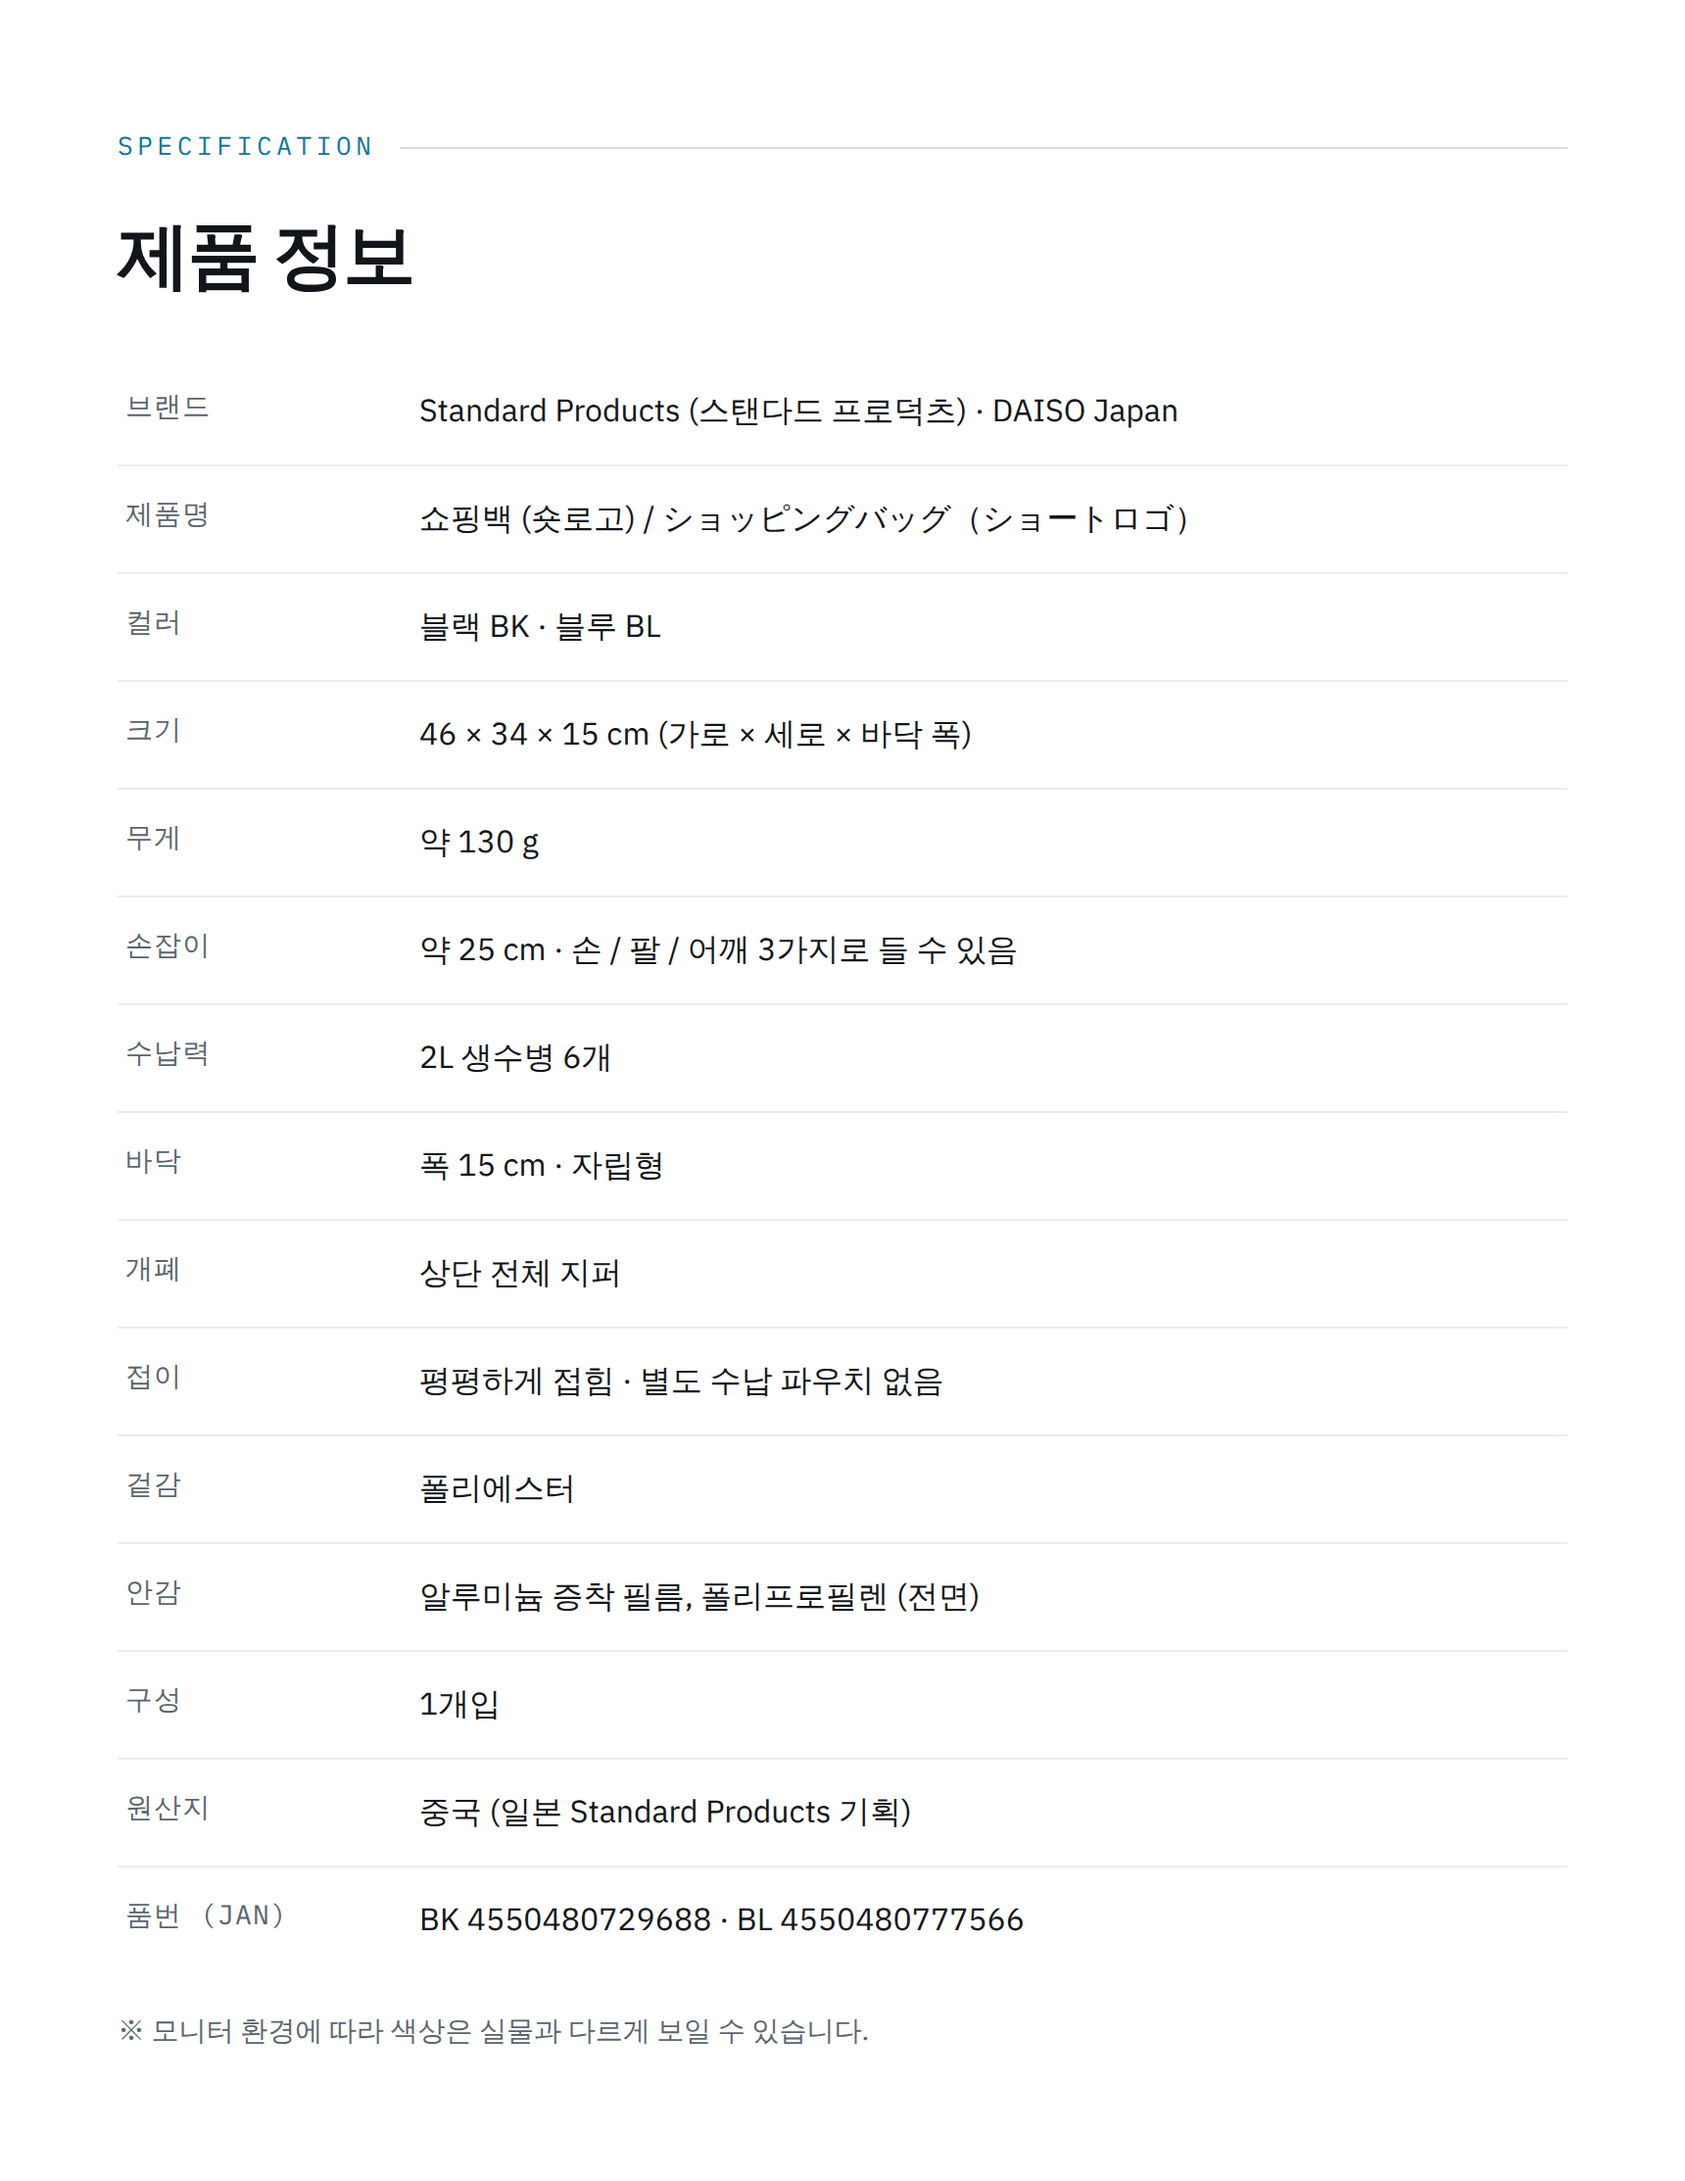
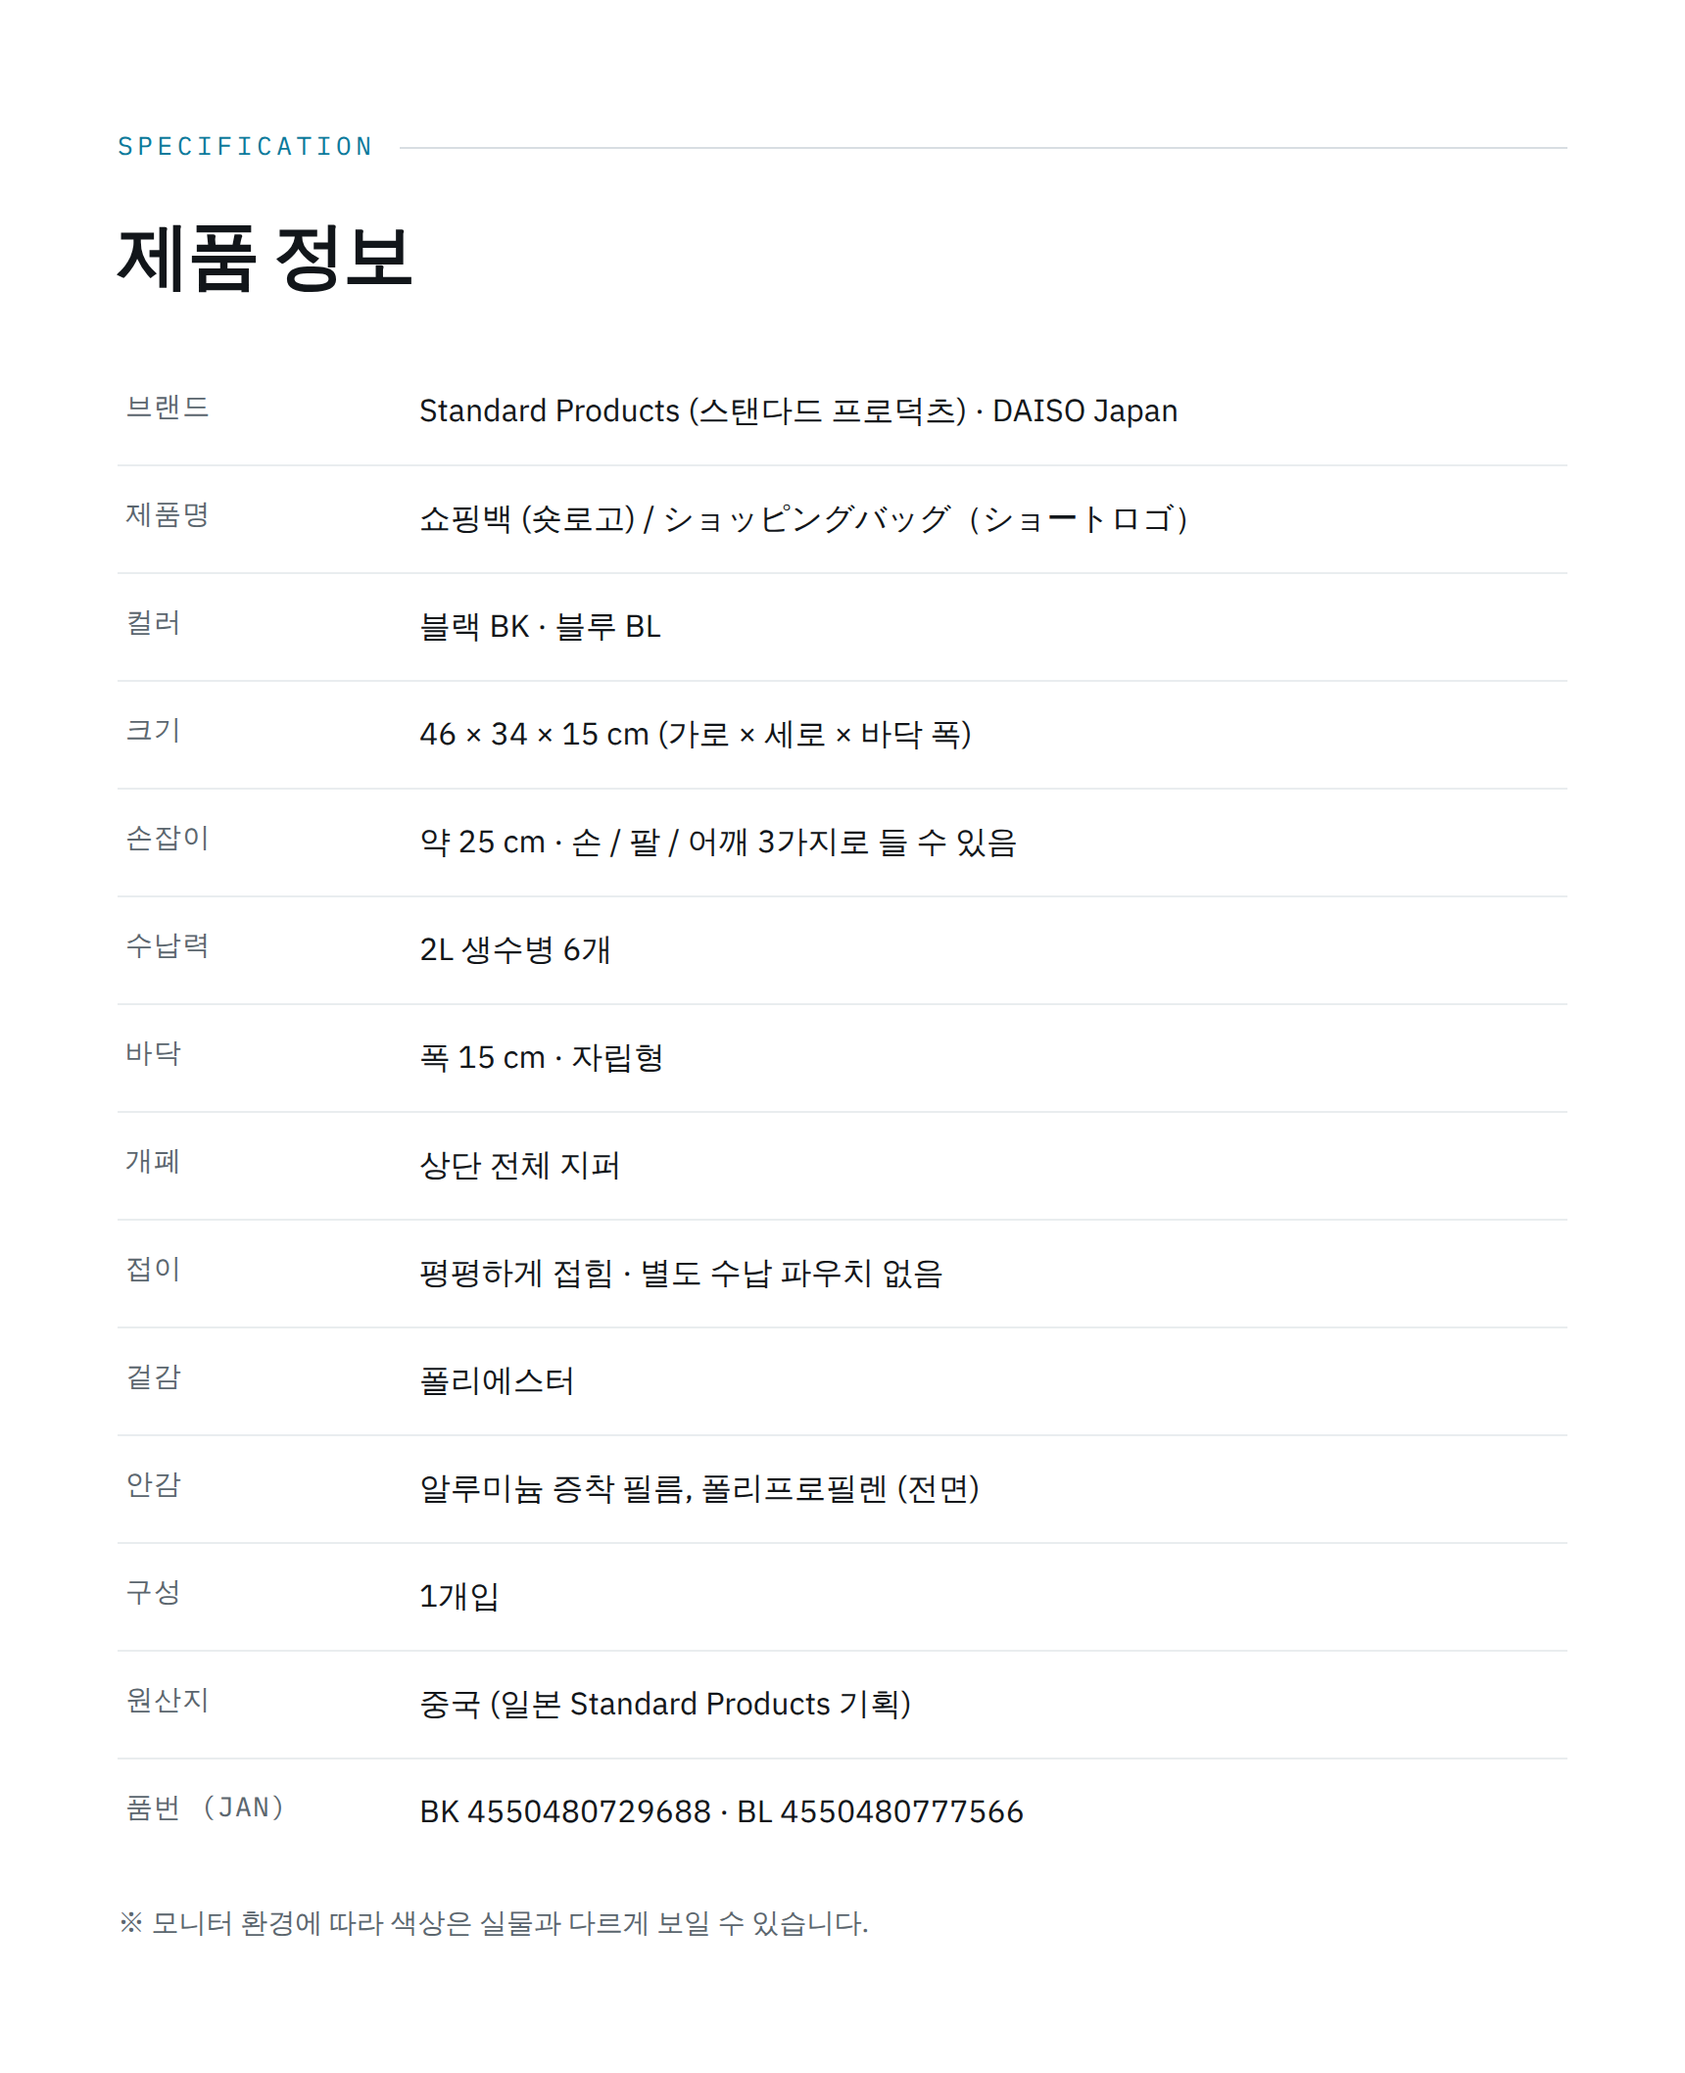
제품 스펙에서 무게 표기 제거
판매자 요청으로 무게(약 130g)를 표기하지 않는다. 요약 지표에서
비어난 자리에는 알루미늄 안감을 넣었다 — 핵심 특징인데 정작 요약
지표에는 빠져 있었다.

- 한눈에 보는 스펙: 무게 → 안감(알루미늄 내피)
- 스펙표 15항목 → 14항목
- 05 섹션 제목과 본문에서 무게 문구 제거
- FAQ 답변 수정

'과도한 무게' 같은 적재 하중 주의 문구는 성격이 달라 유지한다.

Claude-Session: https://claude.ai/code/session_01XtEwJPfADHo5T43jWgLqEL

diff --git a/detail-page/standard-products-cooler-bag.html b/detail-page/standard-products-cooler-bag.html
@@ -312,7 +312,7 @@
     <div class="glance">
       <div class="g"><span class="gl">크기</span><b class="gv">46 <i>×</i> 34 <i>×</i> 15<em>cm</em></b><span class="gn">가로 · 세로 · 바닥 폭</span></div>
       <div class="g"><span class="gl">수납</span><b class="gv">2L <i>×</i> 6<em>병</em></b><span class="gn">2L 생수병 기준</span></div>
-      <div class="g"><span class="gl">무게</span><b class="gv">약 130<em>g</em></b><span class="gn">가방 자체 무게</span></div>
+      <div class="g"><span class="gl">안감</span><b class="gv">알루미늄<em>내피</em></b><span class="gn">안쪽 전면 · 보냉</span></div>
       <div class="g"><span class="gl">손잡이</span><b class="gv">어깨 <em>걸이</em></b><span class="gn">손 · 팔 · 어깨 3가지</span></div>
       <div class="g"><span class="gl">바닥</span><b class="gv">자립<em>형</em></b><span class="gn">폭 15cm · 세워서 담기</span></div>
       <div class="g"><span class="gl">개폐</span><b class="gv">지퍼<em>식</em></b><span class="gn">상단 전체 개폐</span></div>
@@ -588,11 +588,10 @@
     <div class="feat">
       <div class="stack">
         <div><span class="num">05</span></div>
-        <h2>130g. 평소엔 접어서 가방 속에</h2>
+        <h2>평소엔 접어서 가방 속에</h2>
         <p class="lede" style="max-width:56ch">
-          가방 자체 무게가 <b>약 130g</b>. 폴리에스터 원단이라 평평하게 접히고,
-          접으면 일반 가방이나 백팩 안에 그대로 들어갑니다. 별도 수납 파우치는 없습니다.
-          매일 넣어 다니다가 장 볼 일이 생기면 꺼내 쓰는 방식입니다.
+          폴리에스터 원단이라 <b>평평하게 접힙니다.</b> 접으면 일반 가방이나 백팩 안에 그대로 들어가고,
+          별도 수납 파우치는 없습니다. 매일 넣어 다니다가 장 볼 일이 생기면 꺼내 쓰는 방식입니다.
         </p>
       </div>
 
@@ -690,7 +689,6 @@
         <tr><th>제품명</th><td>쇼핑백 (숏로고) / ショッピングバッグ（ショートロゴ）<br><span class="small muted">‘숏로고’는 프린트된 로고 표기 방식을 뜻하며, 손잡이 길이와는 무관합니다.</span></td></tr>
         <tr><th>컬러</th><td>블랙 BK · 블루 BL</td></tr>
         <tr><th>크기</th><td>46 × 34 × 15 cm (가로 × 세로 × 바닥 폭)</td></tr>
-        <tr><th>무게</th><td>약 130 g</td></tr>
         <tr><th>손잡이</th><td>약 25 cm · 손 / 팔 / 어깨 3가지로 들 수 있음</td></tr>
         <tr><th>수납력</th><td>2L 생수병 6개</td></tr>
         <tr><th>바닥</th><td>폭 15 cm · 자립형 (세워두고 담을 수 있음)</td></tr>
@@ -750,7 +748,7 @@
       </div>
       <div class="item">
         <div class="q"><span class="mk">Q</span><span>접어서 보관할 수 있나요?</span></div>
-        <div class="a"><span class="mk">A</span><span>네. 가방 자체가 약 130g으로 가볍고 평평하게 접힙니다. 별도 수납 파우치는 없지만 일반 가방이나 백팩 안에 그대로 들어갑니다.</span></div>
+        <div class="a"><span class="mk">A</span><span>네. 가볍고 평평하게 접힙니다. 별도 수납 파우치는 없지만 일반 가방이나 백팩 안에 그대로 들어갑니다.</span></div>
       </div>
       <div class="item">
         <div class="q"><span class="mk">Q</span><span>한국에서도 살 수 있는 제품인가요?</span></div>

diff --git a/detail-page/_assets-source.html b/detail-page/_assets-source.html
@@ -119,7 +119,7 @@ svg{display:block;width:100%;height:auto}
   <div class="glance">
     <div class="g"><span class="gl">크기</span><b class="gv">46 <i>×</i> 34 <i>×</i> 15<em>cm</em></b><span class="gn">가로 · 세로 · 바닥 폭</span></div>
     <div class="g"><span class="gl">수납</span><b class="gv">2L <i>×</i> 6<em>병</em></b><span class="gn">2L 생수병 기준</span></div>
-    <div class="g"><span class="gl">무게</span><b class="gv">약 130<em>g</em></b><span class="gn">가방 자체 무게</span></div>
+    <div class="g"><span class="gl">안감</span><b class="gv">알루미늄<em>내피</em></b><span class="gn">안쪽 전면 · 보냉</span></div>
     <div class="g"><span class="gl">손잡이</span><b class="gv">어깨 <em>걸이</em></b><span class="gn">손 · 팔 · 어깨 3가지</span></div>
     <div class="g"><span class="gl">바닥</span><b class="gv">자립<em>형</em></b><span class="gn">폭 15cm · 세워서 담기</span></div>
     <div class="g"><span class="gl">개폐</span><b class="gv">지퍼<em>식</em></b><span class="gn">상단 전체 개폐</span></div>
@@ -306,10 +306,8 @@ svg{display:block;width:100%;height:auto}
         <b>어깨에 메기</b><p>가장 무거울 때. 2L 6병을 담아도 어깨로 넘길 수 있습니다.</p>
       </div>
     </div>
-    <div class="note" style="display:flex;align-items:baseline;gap:14px">
-      <b style="font-family:'IBM Plex Mono',monospace;font-size:22px;color:var(--cold);white-space:nowrap">130g</b>
-      <span>가방 자체는 약 130g. 평평하게 접혀 백팩이나 가방 안에 그대로 들어갑니다. 별도 수납 파우치는 없습니다.</span>
-    </div>
+    <p class="note">폴리에스터 원단이라 <b>평평하게 접힙니다.</b> 백팩이나 가방 안에 그대로 들어가며,
+      별도 수납 파우치는 없습니다.</p>
   </div>
 </section>
 
@@ -385,7 +383,6 @@ svg{display:block;width:100%;height:auto}
       <tr><th>제품명</th><td>쇼핑백 (숏로고) / ショッピングバッグ（ショートロゴ）</td></tr>
       <tr><th>컬러</th><td>블랙 BK · 블루 BL</td></tr>
       <tr><th>크기</th><td>46 × 34 × 15 cm (가로 × 세로 × 바닥 폭)</td></tr>
-      <tr><th>무게</th><td>약 130 g</td></tr>
       <tr><th>손잡이</th><td>약 25 cm · 손 / 팔 / 어깨 3가지로 들 수 있음</td></tr>
       <tr><th>수납력</th><td>2L 생수병 6개</td></tr>
       <tr><th>바닥</th><td>폭 15 cm · 자립형</td></tr>

diff --git a/detail-page/스마트스토어-등록정보.md b/detail-page/스마트스토어-등록정보.md
@@ -14,7 +14,6 @@
 | 겉감 | 폴리에스터 |
 | 안감 | 알루미늄 증착 필름, 폴리프로필렌 ← **보냉 소구의 근거** |
 | 크기 | 46 × 34 × 15 cm (가로 × 세로 × 바닥 폭) |
-| 무게 | 약 130 g |
 | 손잡이 | 약 25 cm · 손 / 팔 / 어깨 3가지 |
 | 수납력 | 2L 생수병 6개 |
 | 바닥 | 폭 15 cm · 자립형 (마치 15cm) |
@@ -34,8 +33,9 @@
 ### 확인된 출처
 - 46 × 34 × 15cm / 2L 생수병 6개 / 바닥 폭 15cm 자립 / 어깨 걸이 가능 — 일본 리뷰 매체 다수 (ねとらぼ, macaroni, All About)
 - 소재·원산지·주의사항 — 다이소 재팬 공식 상품 페이지
-- **약 130g, 손잡이 약 25cm** — 리뷰 실측 보고값입니다. 실물이 있으시니 **저울과 줄자로 한 번만 확인**해 주세요.
-  다르면 `standard-products-cooler-bag.html`과 `_assets-source.html`에서 `130`, `25cm`를 검색해 수정 후 `python3 render.py`.
+- **손잡이 약 25cm** — 리뷰 실측 보고값입니다. 실물이 있으시니 **줄자로 한 번만 확인**해 주세요.
+  다르면 `standard-products-cooler-bag.html`과 `_assets-source.html`에서 `25cm`를 검색해 수정 후 `python3 render.py`.
+- 무게는 표기하지 않습니다. (판매자 요청)
 
 > ⚠ 이전 버전에 "손잡이는 손목에 걸기 좋은 짧은 길이"라고 적혀 있었으나 **사실과 다릅니다.**
 > '숏로고'는 로고 프린트 방식을 뜻하며 손잡이 길이와 무관합니다. 현재 버전에서 수정되었습니다.
@@ -79,7 +79,6 @@
 | 소재 | 겉감 폴리에스터 / 안감 알루미늄 증착 필름, 폴리프로필렌 |
 | 색상 | 블랙 (BK), 블루 (BL) |
 | 크기 | 46 × 34 × 15 cm (가로 × 세로 × 바닥 폭) |
-| 무게 | 약 130 g |
 | 손잡이 | 약 25 cm · 손 / 팔 / 어깨 3가지 |
 | 수납력 | 2L 생수병 6개 |
 | 바닥 | 폭 15 cm · 자립형 (마치 15cm) |
@@ -114,7 +113,7 @@
 | `04_cooling_structure.png` | 1720×1776 | 상세 ③ 알루미늄 3겹 단면도 |
 | `05_zipper.png` | 1720×1400 | 상세 ④ 지퍼 열림/닫힘 비교 |
 | `06_size.png` | 1720×1594 | 상세 ⑤ 치수 도면 · 2L 6병 · 자립 |
-| `07_carry.png` | 1720×1508 | 상세 ⑥ 손·팔·어깨 3가지 파지법 · 130g |
+| `07_carry.png` | 1720×1508 | 상세 ⑥ 손·팔·어깨 3가지 파지법 · 접이 |
 | `08_use_cases.png` | 1720×1320 | 상세 ⑦ 마트·캠핑·도시락·여행 |
 | `09_colors.png` | 1720×1332 | 상세 ⑧ 블랙 / 블루 |
 | `10_spec.png` | 1720×2226 | 상세 ⑨ 스펙표 15항목 |
